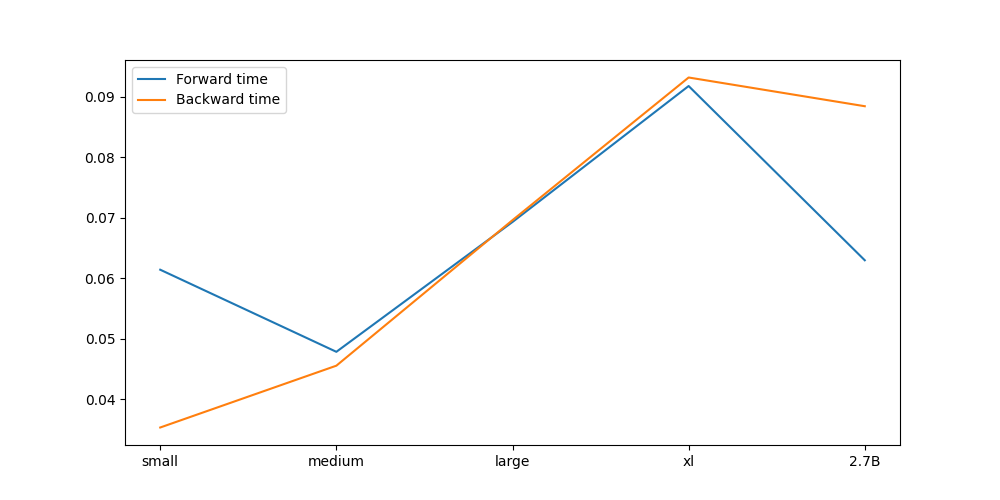
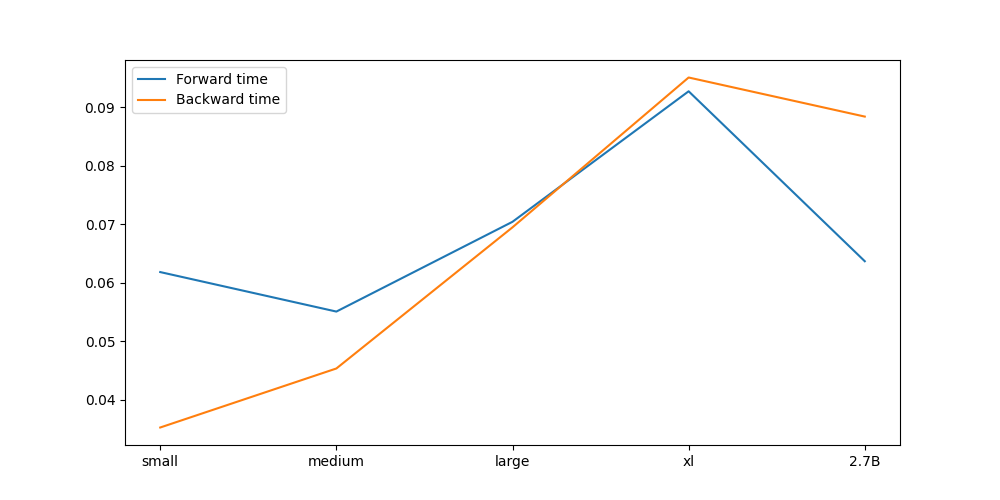
add profiling

diff --git a/cs336_systems/benchmarking.py b/cs336_systems/benchmarking.py
@@ -17,12 +17,14 @@ import time
 import matplotlib.pyplot as plt
 import numpy as np
 import torch.cuda.nvtx as nvtx
+from cs336_basics.optimizer import AdamW
+import argparse
 
 def benchmark_model(module_model, hyperparameters, vocab_size, batch_size, context_length, forward_only=False, warmup_exp=False, device="cuda"):
     """
     Benchmark the model for n_steps steps.
     """
-    n_steps = 1
+    n_steps = 10
     warmup_steps = 5 if warmup_exp else 0
     model = module_model(vocab_size, context_length, **hyperparameters, rope_theta=10000.0)
     # generate random data
@@ -32,39 +34,83 @@ def benchmark_model(module_model, hyperparameters, vocab_size, batch_size, conte
         model = model.to(device)
     
     for _ in range(warmup_steps):
-        model(data)
-    if torch.cuda.is_available():
-        torch.cuda.synchronize()
+        loss = model(data).mean()
+        if not forward_only:
+            loss.backward()
 
     # timeit.default_timer()
     forward_times = []
+    backward_times = []
     for _ in range(n_steps):
-        start_time = timeit.default_timer()
-        model(data)
         if torch.cuda.is_available():
             torch.cuda.synchronize()
-        end_time = timeit.default_timer()   
-        forward_times.append(end_time - start_time)
-
-    backward_times = []
-    if not forward_only:
-        for _ in range(warmup_steps):
-            out = model(data)
-            out.mean().backward()
-
-        for _ in range(n_steps):
-            out = model(data)
-            back_out = out.mean()
+        start_time = timeit.default_timer()
+        loss = model(data).mean()
+        if torch.cuda.is_available():
+            torch.cuda.synchronize()
+        end_time = timeit.default_timer() 
+        forward_times.append(end_time - start_time)  
+   
+        if not forward_only:
+            if torch.cuda.is_available():
+                torch.cuda.synchronize()  
+            start_time_backward = timeit.default_timer()
+            loss.backward()
             if torch.cuda.is_available():
                 torch.cuda.synchronize()
-            start_time = timeit.default_timer()
-            back_out.backward()
-            if torch.cuda.is_available():
-                torch.cuda.synchronize()
-            end_time = timeit.default_timer()
-            backward_times.append(end_time - start_time)
+            end_time_backward = timeit.default_timer()
+            backward_times.append(end_time_backward - start_time_backward)
 
     return forward_times, backward_times
+
+def profile_model(module_model, model_name, hyperparameters, vocab_size, batch_size, context_length, warmup_exp=False, device="cuda"):
+    """
+    Profile the model for n_steps steps.
+    
+    Run with: nsys profile -o profile_<model_name> --capture-range=cudaProfilerApi \
+              .venv/bin/python cs336_systems/benchmarking.py
+    """
+    n_steps = 10
+    model = module_model(vocab_size, context_length, **hyperparameters, rope_theta=10000.0)
+    data = torch.randint(0, vocab_size, (batch_size, context_length))
+    optimizer = AdamW(model.parameters(), lr=1e-4)
+    if device == "cuda":
+        data = data.to(device)
+        model = model.to(device)
+    warmup_steps = 5 if warmup_exp else 0
+    for _ in range(warmup_steps):
+        loss = model(data).mean()
+        optimizer.zero_grad()
+        loss.backward()
+        optimizer.step()
+    
+    torch.cuda.synchronize()
+    
+    # Start CUDA profiler
+    torch.cuda.cudart().cudaProfilerStart()
+
+    for step in range(n_steps):
+        nvtx.range_push(f"Step {step}")
+        
+        nvtx.range_push("Forward")
+        loss = model(data).mean()
+        torch.cuda.synchronize()
+        nvtx.range_pop()
+
+        nvtx.range_push("Backward")
+        loss.backward()
+        torch.cuda.synchronize()
+        nvtx.range_pop()    
+
+        nvtx.range_push("Optimizer Step")
+        optimizer.step()
+        optimizer.zero_grad()
+        torch.cuda.synchronize()
+        nvtx.range_pop()
+        
+        nvtx.range_pop()  # End step
+
+    torch.cuda.cudart().cudaProfilerStop()
 
 if __name__ == "__main__":
     vocab_size = 10000
@@ -103,43 +149,59 @@ if __name__ == "__main__":
             "num_heads": 32,
         },
     }
-    dic_timings = {}
-    warmup_exp = False
-    for model_size, hyperparameters in hyperparameters.items():
-        print("Starting benchmark for model size: ", model_size)
-        forward_time, backward_time = benchmark_model(BasicsTransformerLM, hyperparameters, vocab_size, batch_size, context_length, forward_only=False, warmup_exp=warmup_exp)
-        dic_timings[model_size] = {
-            "forward_time": {
-                "avg_times": sum(forward_time) / len(forward_time),
-                "std_times": torch.std(torch.tensor(forward_time)).item(),
-            },
-            "backward_time": {
-                "avg_times": sum(backward_time) / len(backward_time),
-                "std_times": torch.std(torch.tensor(backward_time)).item(),
-            },
-        }
-        print("Benchmark for model size: ", model_size, " completed")
-        print("Forward time: ", forward_time, " seconds")
-        print("Backward time: ", backward_time, " seconds")
-    base_path = "cs336_systems/outputs"
-    file_name = "benchmark_timings.json" if warmup_exp else "benchmark_timings_no_warmup.json"
-    with open(os.path.join(base_path, file_name), "w") as f:
-        json.dump(dic_timings, f, indent=4)
-    # read the json file and plot
-    with open(os.path.join(base_path, file_name), "r") as f:
-        dic_timings = json.load(f)
-    for model_size, timings in dic_timings.items():
-        print(model_size)
-        print(timings)
-        print("Forward time: ", timings["forward_time"]["avg_times"], " seconds")
-        print("Backward time: ", timings["backward_time"]["avg_times"], " seconds")
-        print("Forward time std: ", timings["forward_time"]["std_times"], " seconds")
-        print("Backward time std: ", timings["backward_time"]["std_times"], " seconds")
-        print("--------------------------------")
-    # plot the forward and backward times for each model size
-    plt.figure(figsize=(10, 5))
-    plt.plot(dic_timings.keys(), [timings["forward_time"]["avg_times"] for timings in dic_timings.values()], label="Forward time")
-    plt.plot(dic_timings.keys(), [timings["backward_time"]["avg_times"] for timings in dic_timings.values()], label="Backward time")
-    plt.legend()
-    # save the plot
-    plt.savefig(os.path.join(base_path, file_name.replace(".json", ".png")))
+
+    # benchmark the model
+    # dic_timings = {}
+    # warmup_exp = False
+    # for model_size, hyperparameters in hyperparameters.items():
+    #     print("Starting benchmark for model size: ", model_size)
+    #     forward_time, backward_time = benchmark_model(BasicsTransformerLM, hyperparameters, vocab_size, batch_size, context_length, forward_only=False, warmup_exp=warmup_exp)
+    #     dic_timings[model_size] = {
+    #         "forward_time": {
+    #             "avg_times": sum(forward_time) / len(forward_time),
+    #             "std_times": torch.std(torch.tensor(forward_time)).item(),
+    #         },
+    #         "backward_time": {
+    #             "avg_times": sum(backward_time) / len(backward_time),
+    #             "std_times": torch.std(torch.tensor(backward_time)).item(),
+    #         },
+    #     }
+    #     print("Benchmark for model size: ", model_size, " completed")
+    #     print("Forward time: ", forward_time, " seconds")
+    #     print("Backward time: ", backward_time, " seconds")
+    # base_path = "cs336_systems/outputs"
+    # file_name = "benchmark_timings.json" if warmup_exp else "benchmark_timings_no_warmup.json"
+    # with open(os.path.join(base_path, file_name), "w") as f:
+    #     json.dump(dic_timings, f, indent=4)
+    # # read the json file and plot
+    # with open(os.path.join(base_path, file_name), "r") as f:
+    #     dic_timings = json.load(f)
+    # for model_size, timings in dic_timings.items():
+    #     print(model_size)
+    #     print(timings)
+    #     print("Forward time: ", timings["forward_time"]["avg_times"], " seconds")
+    #     print("Backward time: ", timings["backward_time"]["avg_times"], " seconds")
+    #     print("Forward time std: ", timings["forward_time"]["std_times"], " seconds")
+    #     print("Backward time std: ", timings["backward_time"]["std_times"], " seconds")
+    #     print("--------------------------------")
+    # # plot the forward and backward times for each model size
+    # plt.figure(figsize=(10, 5))
+    # plt.plot(dic_timings.keys(), [timings["forward_time"]["avg_times"] for timings in dic_timings.values()], label="Forward time")
+    # plt.plot(dic_timings.keys(), [timings["backward_time"]["avg_times"] for timings in dic_timings.values()], label="Backward time")
+    # plt.legend()
+    # # save the plot
+    # plt.savefig(os.path.join(base_path, file_name.replace(".json", ".png")))
+
+
+
+    # profile the model
+    # capture command line arguement for model size
+    parser = argparse.ArgumentParser()
+    parser.add_argument("--model", type=str, default="small")
+    args = parser.parse_args()
+    model_size = args.model
+    hyperparameters = hyperparameters[model_size]
+    print("Starting profiling for model size: ", model_size)
+    profile_model(BasicsTransformerLM, model_size, hyperparameters, vocab_size, batch_size, context_length, warmup_exp=True)
+    print("Profiling for model size: ", model_size, " completed")
+    print("--------------------------------")

diff --git a/cs336_systems/outputs/answers.md b/cs336_systems/outputs/answers.md
@@ -4,3 +4,6 @@ Refer: [Results](cs336_systems/outputs/benchmark_timings.json)
 Timing plot: [Timing Plot](cs336_systems/outputs/benchmark_timings.png)
 Overall very little std deviation, and model increase leads to more time taken for both forward and backward pass. 2.7B vs xl we observe that xl is slower than 2.7B. This maybe due to lesser num layers in 2.7B model.
 If no warmup is done, the passes have both higher std deviation and higher average time as expected.
+
+Problem (nsys_profile):
+a) 
